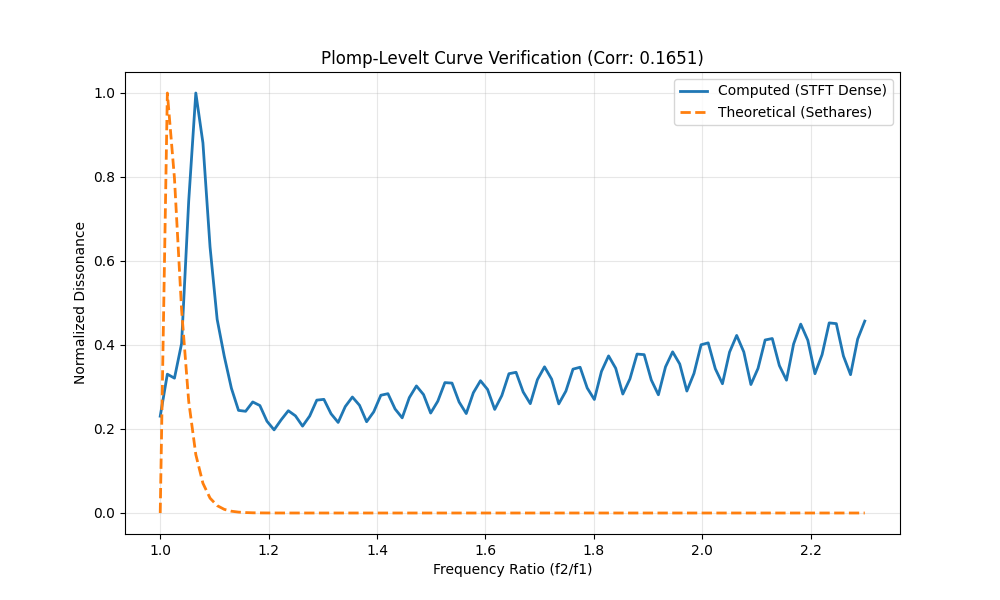
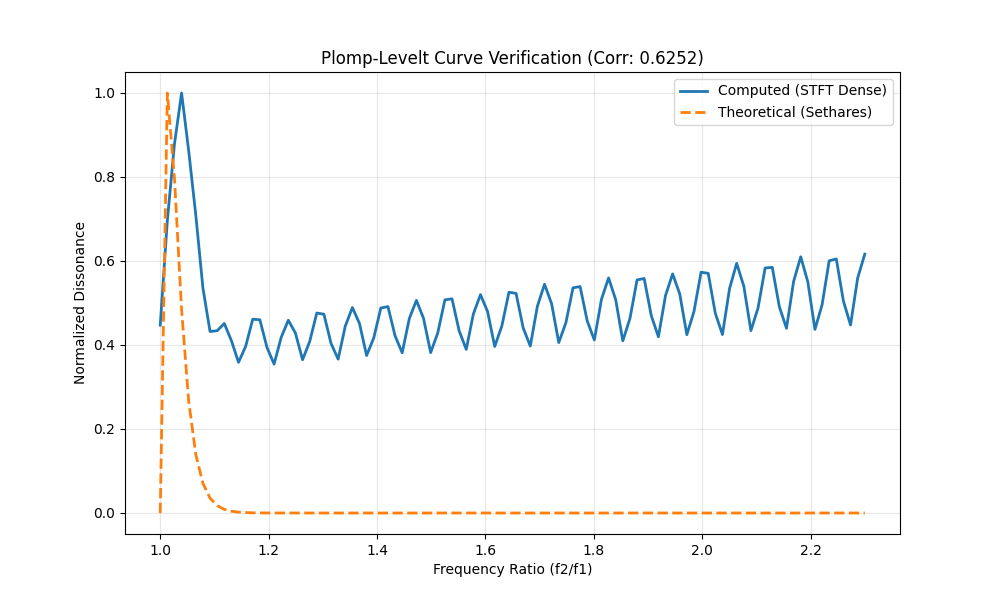
Update dissonance params: 44.1kHz, n_fft=16384, diagonal masking

Changed region(s): [[0.217, 0.42, 0.868, 0.72], [0.155, 0.15, 0.217, 0.66], [0.651, 0.09, 0.682, 0.12]]

diff --git a/scripts/verify_pl_curve.py b/scripts/verify_pl_curve.py
@@ -12,7 +12,7 @@ def sethares_pair_dissonance(f1, f2, alpha=0.021, beta=19.0):
     return np.exp(-3.5 * s) - np.exp(-5.75 * s)
 
 def run_sweep():
-    sr = 22050
+    sr = 44100
     base_freq = 440.0
     # Sweep from Unison (ratio 1.0) to Octave (ratio 2.0)
     ratios = np.linspace(1.0, 2.3, 100)
@@ -20,7 +20,7 @@ def run_sweep():
     computed_dissonance = []
     theoretical_dissonance = []
     
-    print(f"Sweeping intervals from unison to >octave ({len(ratios)} steps)...")
+    print(f"Sweeping intervals from unison to >octave ({len(ratios)} steps) at SR={sr}...")
     
     for r in ratios:
         f2 = base_freq * r
@@ -34,7 +34,9 @@ def run_sweep():
         sig = torch.sin(2 * 3.14159 * base_freq * t) + torch.sin(2 * 3.14159 * f2 * t)
         
         # Compute
-        curve, integral = timbral_dissonance(sig, sr)
+        # User requested 250ms window. 44100 * 0.25 = 11025.
+        # Next power of 2 is 16384 (approx 371ms resolution).
+        curve, integral = timbral_dissonance(sig, sr, n_fft=16384)
         computed_dissonance.append(integral)
         
         # Theoretical (Sethares)
